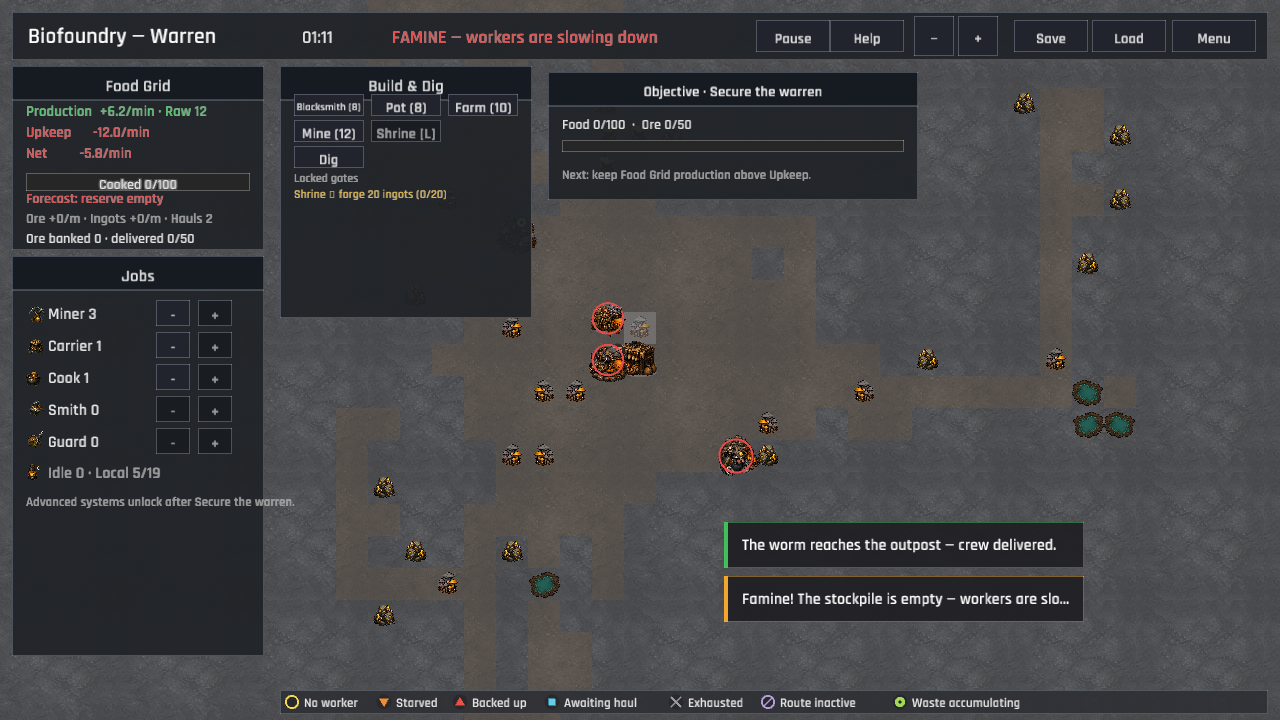
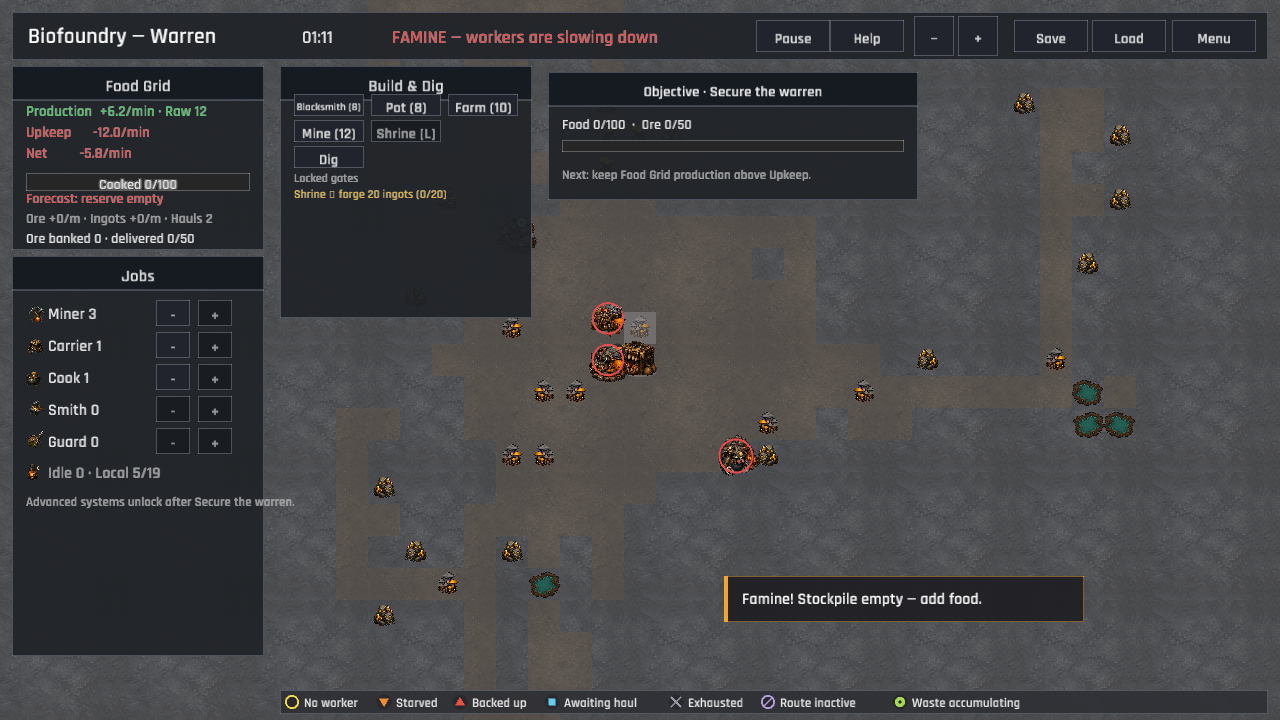
The warren keeps its warnings clear in narrow windows
Compact browser canvases now use shorter, control-aware warning labels for pause, famine, raids, transit, and route failure so the fixed HUD does not run beneath its buttons. The famine toast also names the recovery need within the shared notification width. The alert helpers move into their own module, and the release capture set records the compact states alongside the canonical famine screen.

Changed region(s): [[0.5625, 0.7028, 0.8438, 0.7944], [0.625, 0.825, 0.8438, 0.8556]]

diff --git a/src/ui/hud/panels.rs b/src/ui/hud/panels.rs
@@ -2,8 +2,13 @@
 //! job assignment panel, the build/dig tools, and the tutorial card.
 
 mod food;
+mod top_bar;
 
 pub(super) use food::draw_food_grid_panel;
+pub(super) use top_bar::{
+    compact_food_recovery_hint, compact_raid_defense_hint, compact_top_bar,
+    condensed_food_recovery_hint, condensed_raid_defense_hint, reassignable_job_count,
+};
 
 use crate::data::GameData;
 use crate::simulation::{self, food as simulation_food};
@@ -26,6 +31,7 @@ pub(super) fn draw_top_bar(
     data: &GameData,
     bar: Rect,
     mouse: Vec2,
+    ui_scale: f32,
     paused: bool,
     actions: &mut Vec<UiAction>,
 ) {
@@ -50,26 +56,40 @@ pub(super) fn draw_top_bar(
         TextStyle::new(18.0, dark::TEXT).params(),
     );
 
+    let compact = compact_top_bar(ui_scale);
     if paused {
         draw_ui_text_ex(
-            "PAUSED — tap Resume to continue",
+            if compact {
+                "PAUSED — tap Resume"
+            } else {
+                "PAUSED — tap Resume to continue"
+            },
             bar.x + 380.0,
             bar.y + 31.0,
             TextStyle::new(15.0, dark::WARNING).params(),
         );
     } else if let Some(transit) = &session.worm_transit {
-        draw_ui_text_ex(
-            &format!(
+        let transit_label = if compact {
+            format!("WORM TRANSIT — {:.0}s", transit.remaining.max(0.0))
+        } else {
+            format!(
                 "WORM TRANSIT — {:.0}s remaining",
                 transit.remaining.max(0.0)
-            ),
+            )
+        };
+        draw_ui_text_ex(
+            &transit_label,
             bar.x + 380.0,
             bar.y + 31.0,
             TextStyle::new(18.0, dark::POSITIVE).params(),
         );
     } else if session.last_transit_failure.is_some() {
         draw_ui_text_ex(
-            "WORM ROUTE FAILED — inspect the outpost",
+            if compact {
+                "ROUTE FAILED — inspect outpost"
+            } else {
+                "WORM ROUTE FAILED — inspect the outpost"
+            },
             bar.x + 380.0,
             bar.y + 31.0,
             TextStyle::new(18.0, dark::NEGATIVE).params(),
@@ -80,23 +100,40 @@ pub(super) fn draw_top_bar(
         let food_suffix = if session.economy.food <= 0.0 {
             " · FAMINE".to_owned()
         } else if let Some(seconds) = food_warning {
-            format!(" · FOOD IN {}", format_mmss(seconds))
+            if compact {
+                format!(" · FOOD {}", format_mmss(seconds))
+            } else {
+                format!(" · FOOD IN {}", format_mmss(seconds))
+            }
         } else {
             String::new()
         };
-        draw_ui_text_ex(
-            &format!(
+        let raid_label = if compact {
+            format!(
+                "RAID — {}{}",
+                condensed_raid_defense_hint(session, data),
+                food_suffix
+            )
+        } else {
+            format!(
                 "RAID — gnarls are after the larder! {}{}",
                 compact_raid_defense_hint(session, data),
                 food_suffix
-            ),
+            )
+        };
+        draw_ui_text_ex(
+            &raid_label,
             bar.x + 380.0,
             bar.y + 31.0,
             TextStyle::new(15.0, dark::NEGATIVE).params(),
         );
     } else if session.economy.food <= 0.0 {
         draw_ui_text_ex(
-            "FAMINE — workers are slowing down",
+            if compact {
+                "FAMINE — workers slowing"
+            } else {
+                "FAMINE — workers are slowing down"
+            },
             bar.x + 380.0,
             bar.y + 31.0,
             TextStyle::new(18.0, dark::NEGATIVE).params(),
@@ -105,36 +142,64 @@ pub(super) fn draw_top_bar(
         .filter(|seconds| *seconds <= data.balance.food_warning_sec)
     {
         if session.raid_in <= data.balance.raid_warning_sec {
-            draw_ui_text_ex(
-                &format!(
+            let warning_label = if compact {
+                format!(
+                    "FOOD {} · RAID {} · {}",
+                    format_mmss(seconds),
+                    format_mmss(session.raid_in.max(0.0)),
+                    condensed_raid_defense_hint(session, data)
+                )
+            } else {
+                format!(
                     "FOOD IN {} · RAID IN {} · {}",
                     format_mmss(seconds),
                     format_mmss(session.raid_in.max(0.0)),
                     compact_raid_defense_hint(session, data)
-                ),
+                )
+            };
+            draw_ui_text_ex(
+                &warning_label,
                 bar.x + 380.0,
                 bar.y + 31.0,
                 TextStyle::new(15.0, dark::WARNING).params(),
             );
         } else {
-            draw_ui_text_ex(
-                &format!(
+            let warning_label = if compact {
+                format!(
+                    "FOOD {} · {}",
+                    format_mmss(seconds),
+                    condensed_food_recovery_hint(session, data)
+                )
+            } else {
+                format!(
                     "FOOD IN {} · {}",
                     format_mmss(seconds),
                     compact_food_recovery_hint(session, data)
-                ),
+                )
+            };
+            draw_ui_text_ex(
+                &warning_label,
                 bar.x + 380.0,
                 bar.y + 31.0,
                 TextStyle::new(15.0, dark::WARNING).params(),
             );
         }
     } else if session.raid_in <= data.balance.raid_warning_sec {
-        draw_ui_text_ex(
-            &format!(
+        let warning_label = if compact {
+            format!(
+                "RAID {} · {}",
+                format_mmss(session.raid_in.max(0.0)),
+                condensed_raid_defense_hint(session, data)
+            )
+        } else {
+            format!(
                 "RAID IN {} — {}",
                 format_mmss(session.raid_in.max(0.0)),
                 compact_raid_defense_hint(session, data)
-            ),
+            )
+        };
+        draw_ui_text_ex(
+            &warning_label,
             bar.x + 380.0,
             bar.y + 31.0,
             TextStyle::new(15.0, dark::WARNING).params(),
@@ -413,51 +478,6 @@ fn workforce_capacity_label(session: &GameSession, data: &GameData) -> String {
         session.local_creature_count(),
         session.local_warren_capacity(data)
     )
-}
-
-/// Keep a combined food/raid banner short while naming the visible Guard
-/// control that resolves the incoming threat.
-pub(super) fn compact_raid_defense_hint(session: &GameSession, data: &GameData) -> String {
-    if reassignable_job_count(session, data, Job::Guard) > 0 {
-        "guards on watch".to_owned()
-    } else if reassignable_job_count(session, data, Job::Idle) > 0 {
-        "tap + Guard".to_owned()
-    } else {
-        [Job::Miner, Job::Carrier, Job::Cook, Job::Smith]
-            .into_iter()
-            .find(|job| reassignable_job_count(session, data, *job) > 0)
-            .map(|job| format!("tap − {}, then + Guard", job.label()))
-            .unwrap_or_else(|| "free a worker, then + Guard".to_owned())
-    }
-}
-
-/// Shorten the opening response enough to share the top bar with its buttons.
-/// The full control names remain in the tutorial card beside the banner.
-pub(super) fn compact_food_recovery_hint(session: &GameSession, data: &GameData) -> String {
-    if reassignable_job_count(session, data, Job::Idle) > 0 {
-        "tap + Carrier or Cook".to_owned()
-    } else {
-        [Job::Miner, Job::Smith, Job::Guard]
-            .into_iter()
-            .find(|job| reassignable_job_count(session, data, *job) > 0)
-            .map(|job| format!("tap − {}, then + Carrier", job.label()))
-            .unwrap_or_else(|| "free a worker, then + Carrier".to_owned())
-    }
-}
-
-fn reassignable_job_count(session: &GameSession, data: &GameData, job: Job) -> usize {
-    session
-        .creatures
-        .iter()
-        .filter(|creature| {
-            !creature.is_remote()
-                && creature.job == job
-                && data
-                    .species
-                    .get(&creature.species)
-                    .is_some_and(|species| species.reassignable)
-        })
-        .count()
 }
 
 #[cfg(test)]

diff --git a/src/ui/hud/panels/top_bar.rs b/src/ui/hud/panels/top_bar.rs
@@ -1,0 +1,81 @@
+use crate::data::GameData;
+use crate::state::creatures::Job;
+use crate::state::GameSession;
+
+/// Keep a combined food/raid banner short while naming the visible Guard
+/// control that resolves the incoming threat.
+pub(crate) fn compact_raid_defense_hint(session: &GameSession, data: &GameData) -> String {
+    if reassignable_job_count(session, data, Job::Guard) > 0 {
+        "guards on watch".to_owned()
+    } else if reassignable_job_count(session, data, Job::Idle) > 0 {
+        "tap + Guard".to_owned()
+    } else {
+        [Job::Miner, Job::Carrier, Job::Cook, Job::Smith]
+            .into_iter()
+            .find(|job| reassignable_job_count(session, data, *job) > 0)
+            .map(|job| format!("tap − {}, then + Guard", job.label()))
+            .unwrap_or_else(|| "free a worker, then + Guard".to_owned())
+    }
+}
+
+/// Shorten the opening response enough to share the top bar with its buttons.
+/// The full control names remain in the tutorial card beside the banner.
+pub(crate) fn compact_food_recovery_hint(session: &GameSession, data: &GameData) -> String {
+    if reassignable_job_count(session, data, Job::Idle) > 0 {
+        "tap + Carrier or Cook".to_owned()
+    } else {
+        [Job::Miner, Job::Smith, Job::Guard]
+            .into_iter()
+            .find(|job| reassignable_job_count(session, data, *job) > 0)
+            .map(|job| format!("tap − {}, then + Carrier", job.label()))
+            .unwrap_or_else(|| "free a worker, then + Carrier".to_owned())
+    }
+}
+
+/// Compress alert guidance when the fixed HUD is letterboxed into a narrow
+/// browser canvas. The Jobs panel and tutorial card still carry the full
+/// wording; these banners only need to identify the next visible control.
+pub(crate) fn condensed_raid_defense_hint(session: &GameSession, data: &GameData) -> String {
+    if reassignable_job_count(session, data, Job::Guard) > 0 {
+        "guards ready".to_owned()
+    } else if reassignable_job_count(session, data, Job::Idle) > 0 {
+        "tap + Guard".to_owned()
+    } else {
+        [Job::Miner, Job::Carrier, Job::Cook, Job::Smith]
+            .into_iter()
+            .find(|job| reassignable_job_count(session, data, *job) > 0)
+            .map(|job| format!("tap −{}→+Guard", job.label()))
+            .unwrap_or_else(|| "free worker→+Guard".to_owned())
+    }
+}
+
+pub(crate) fn condensed_food_recovery_hint(session: &GameSession, data: &GameData) -> String {
+    if reassignable_job_count(session, data, Job::Idle) > 0 {
+        "tap + Carrier/Cook".to_owned()
+    } else {
+        [Job::Miner, Job::Smith, Job::Guard]
+            .into_iter()
+            .find(|job| reassignable_job_count(session, data, *job) > 0)
+            .map(|job| format!("tap −{}→+Carrier", job.label()))
+            .unwrap_or_else(|| "free worker→+Carrier".to_owned())
+    }
+}
+
+pub(crate) fn compact_top_bar(ui_scale: f32) -> bool {
+    ui_scale.is_finite() && ui_scale < 0.9
+}
+
+pub(crate) fn reassignable_job_count(session: &GameSession, data: &GameData, job: Job) -> usize {
+    session
+        .creatures
+        .iter()
+        .filter(|creature| {
+            !creature.is_remote()
+                && creature.job == job
+                && data
+                    .species
+                    .get(&creature.species)
+                    .is_some_and(|species| species.reassignable)
+        })
+        .count()
+}

diff --git a/src/ui/hud/panels/tests.rs b/src/ui/hud/panels/tests.rs
@@ -115,6 +115,29 @@ fn compact_raid_hint_stays_short_when_a_worker_is_free() {
 }
 
 #[test]
+fn condensed_alert_hints_fit_a_narrow_top_bar() {
+    let data = GameData::load().expect("embedded game data");
+    let session = GameSession::new(&data, 7);
+
+    assert_eq!(
+        condensed_raid_defense_hint(&session, &data),
+        "tap −Miner→+Guard"
+    );
+    assert_eq!(
+        condensed_food_recovery_hint(&session, &data),
+        "tap −Miner→+Carrier"
+    );
+}
+
+#[test]
+fn compact_top_bar_only_applies_below_the_design_scale() {
+    assert!(compact_top_bar(0.625));
+    assert!(!compact_top_bar(0.9));
+    assert!(!compact_top_bar(1.0));
+    assert!(!compact_top_bar(f32::NAN));
+}
+
+#[test]
 fn hints_do_not_promise_reassignment_of_a_specialist() {
     let data = GameData::load().expect("embedded game data");
     let mut session = GameSession::new(&data, 7);

diff --git a/src/ui/hud.rs b/src/ui/hud.rs
@@ -101,7 +101,15 @@ pub fn draw(
     // makes its buttons disappear below the browser fold at 1280x720.
     let tools_panel = Rect::new(PANEL_W + 28.0, 66.0, PANEL_W, 252.0);
 
-    panels::draw_top_bar(session, data, top_bar, mouse, options.paused, &mut actions);
+    panels::draw_top_bar(
+        session,
+        data,
+        top_bar,
+        mouse,
+        ui.scale,
+        options.paused,
+        &mut actions,
+    );
     panels::draw_food_grid_panel(session, data, food_panel);
     panels::draw_jobs_panel(session, data, sprites, jobs_panel, mouse, &mut actions);
     panels::draw_tools_panel(session, data, tools_panel, mode, mouse, &mut actions);

diff --git a/src/game.rs b/src/game.rs
@@ -212,7 +212,7 @@ impl Game {
             if session.economy.food <= 0.0 && !self.famine_announced {
                 self.famine_announced = true;
                 self.notifications
-                    .warning("Famine! The stockpile is empty — workers are slowing.");
+                    .warning("Famine! Stockpile empty — add food.");
                 self.audio.play(Sfx::Alarm);
             } else if session.economy.food > 5.0 {
                 self.famine_announced = false;
